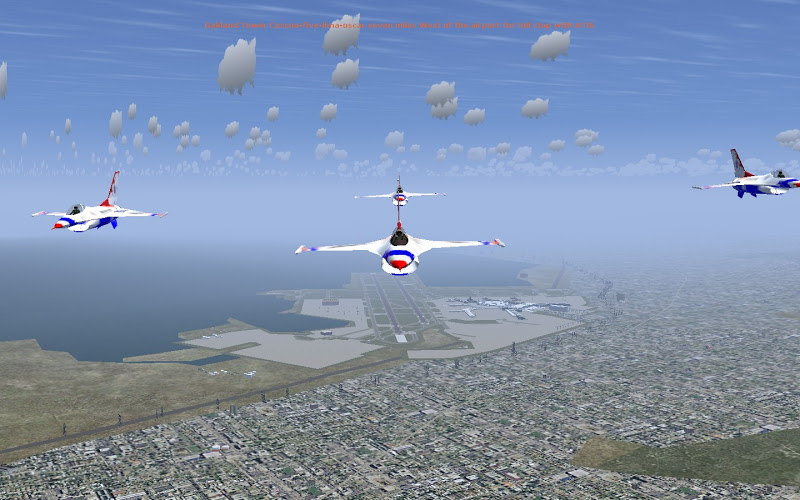
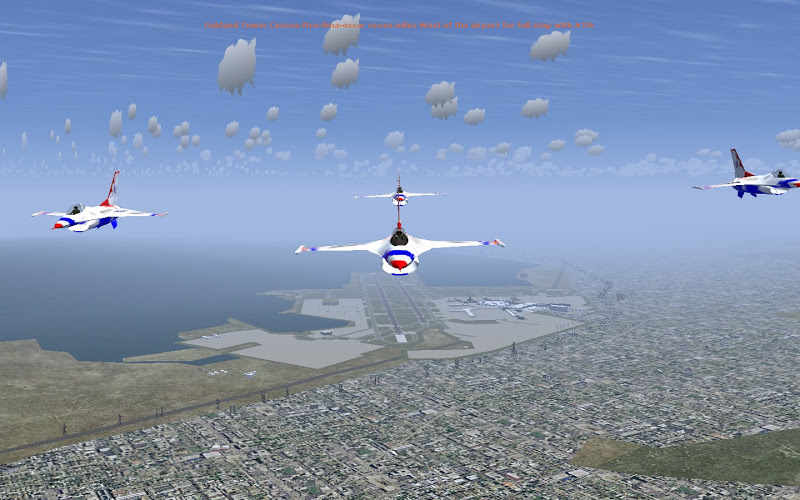
Compressed images and corrected 404

diff --git a/docs/404.html b/docs/404.html
@@ -25,7 +25,10 @@ h1{
 
 <p>The page you requested was not found, <a href="index.html">click here</a> for the site index.</p>
 
-/*! <!-- This is a really long comment to make the file over a certain length cos IE dont like it. I dont know why m$ do this kinda silly silly stuff but there again its m$ so they do what they want */
+<!-- This is a really long comment to make the file over a certain length cos IE dont like it. I dont know why m$ do this kinda silly silly stuff but there again its m$ so they do what they want 
+
+Lorem Ipsum is simply dummy text of the printing and typesetting industry. Lorem Ipsum has been the industry's standard dummy text ever since the 1500s, when an unknown printer took a galley of type and scrambled it to make a type specimen book. It has survived not only five centuries, but also the leap into electronic typesetting, remaining essentially unchanged. It was popularised in the 1960s with the release of Letraset sheets containing Lorem Ipsum passages, and more recently with desktop publishing software like Aldus PageMaker including versions of Lorem Ipsum.
+->
 <body>
 
 </html>
